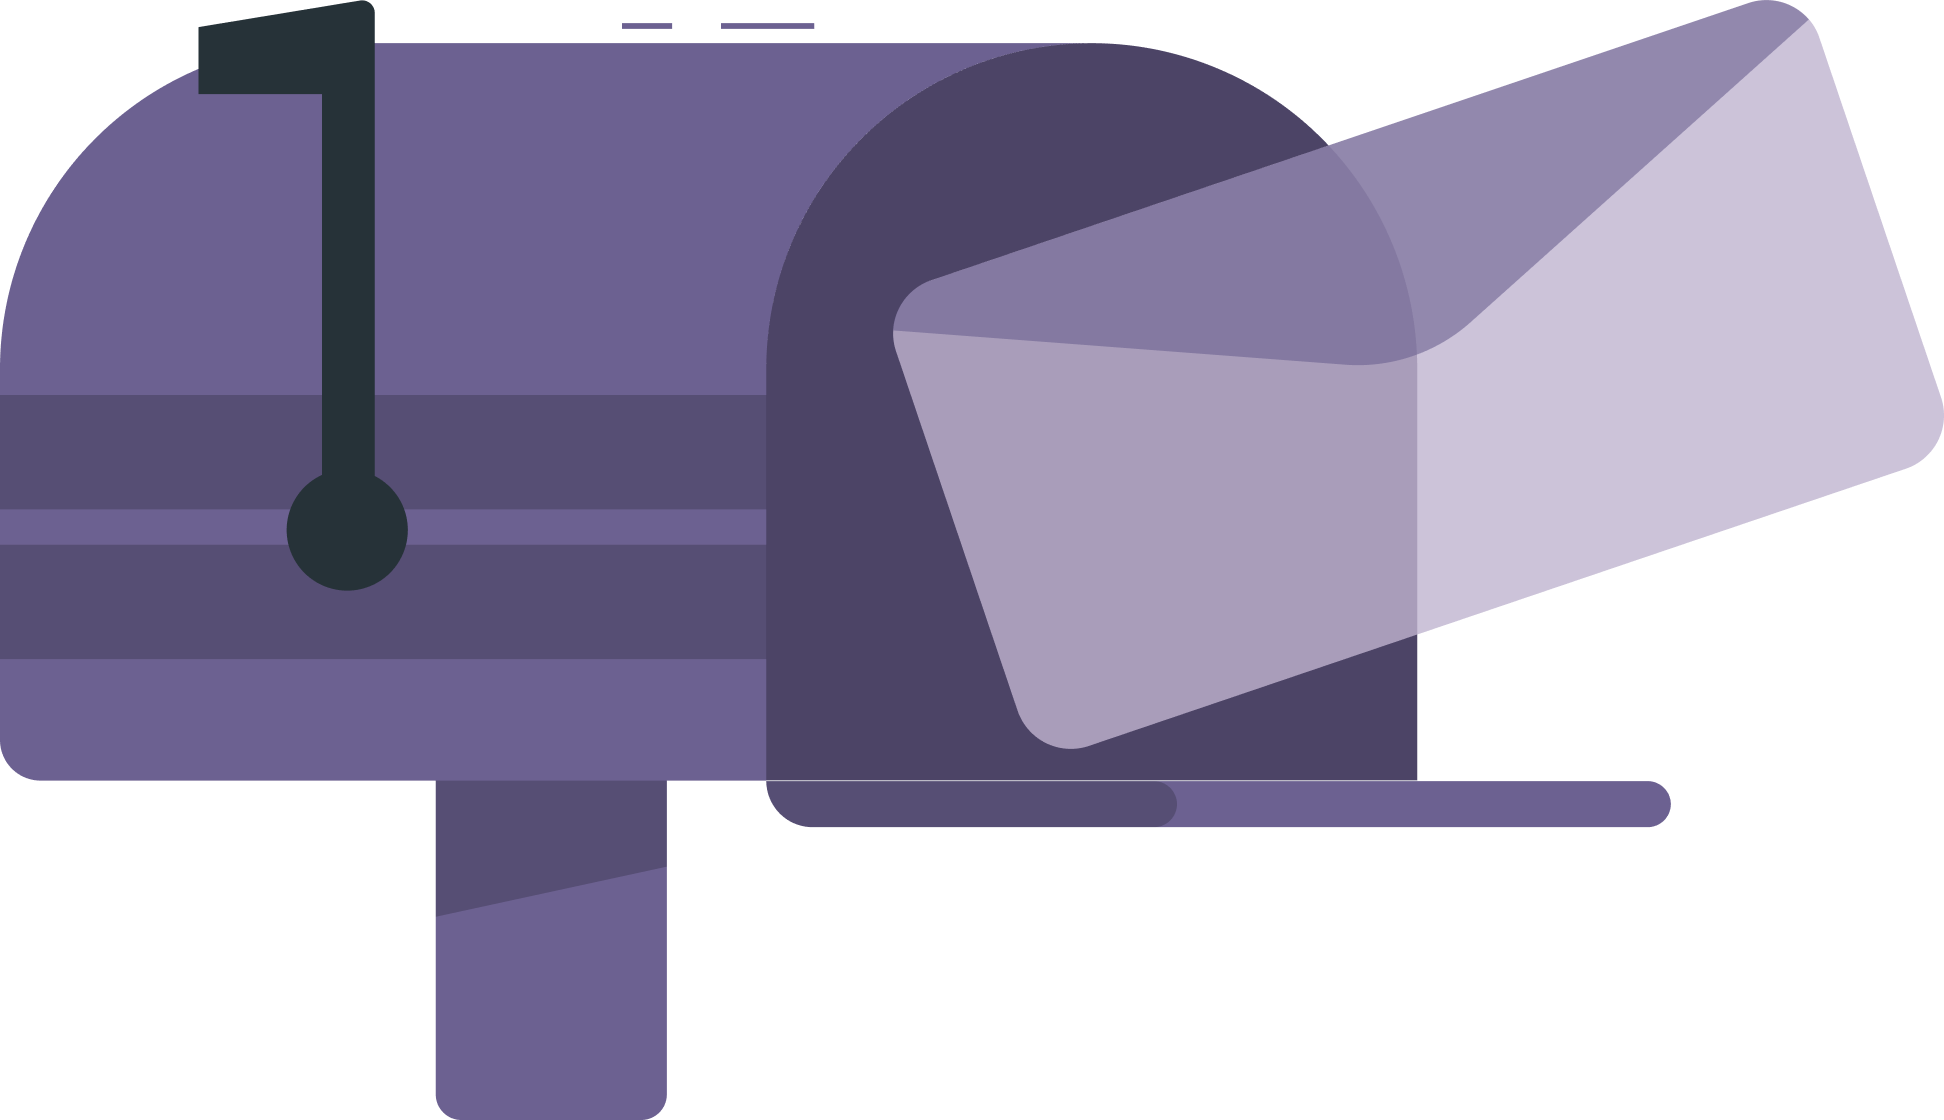
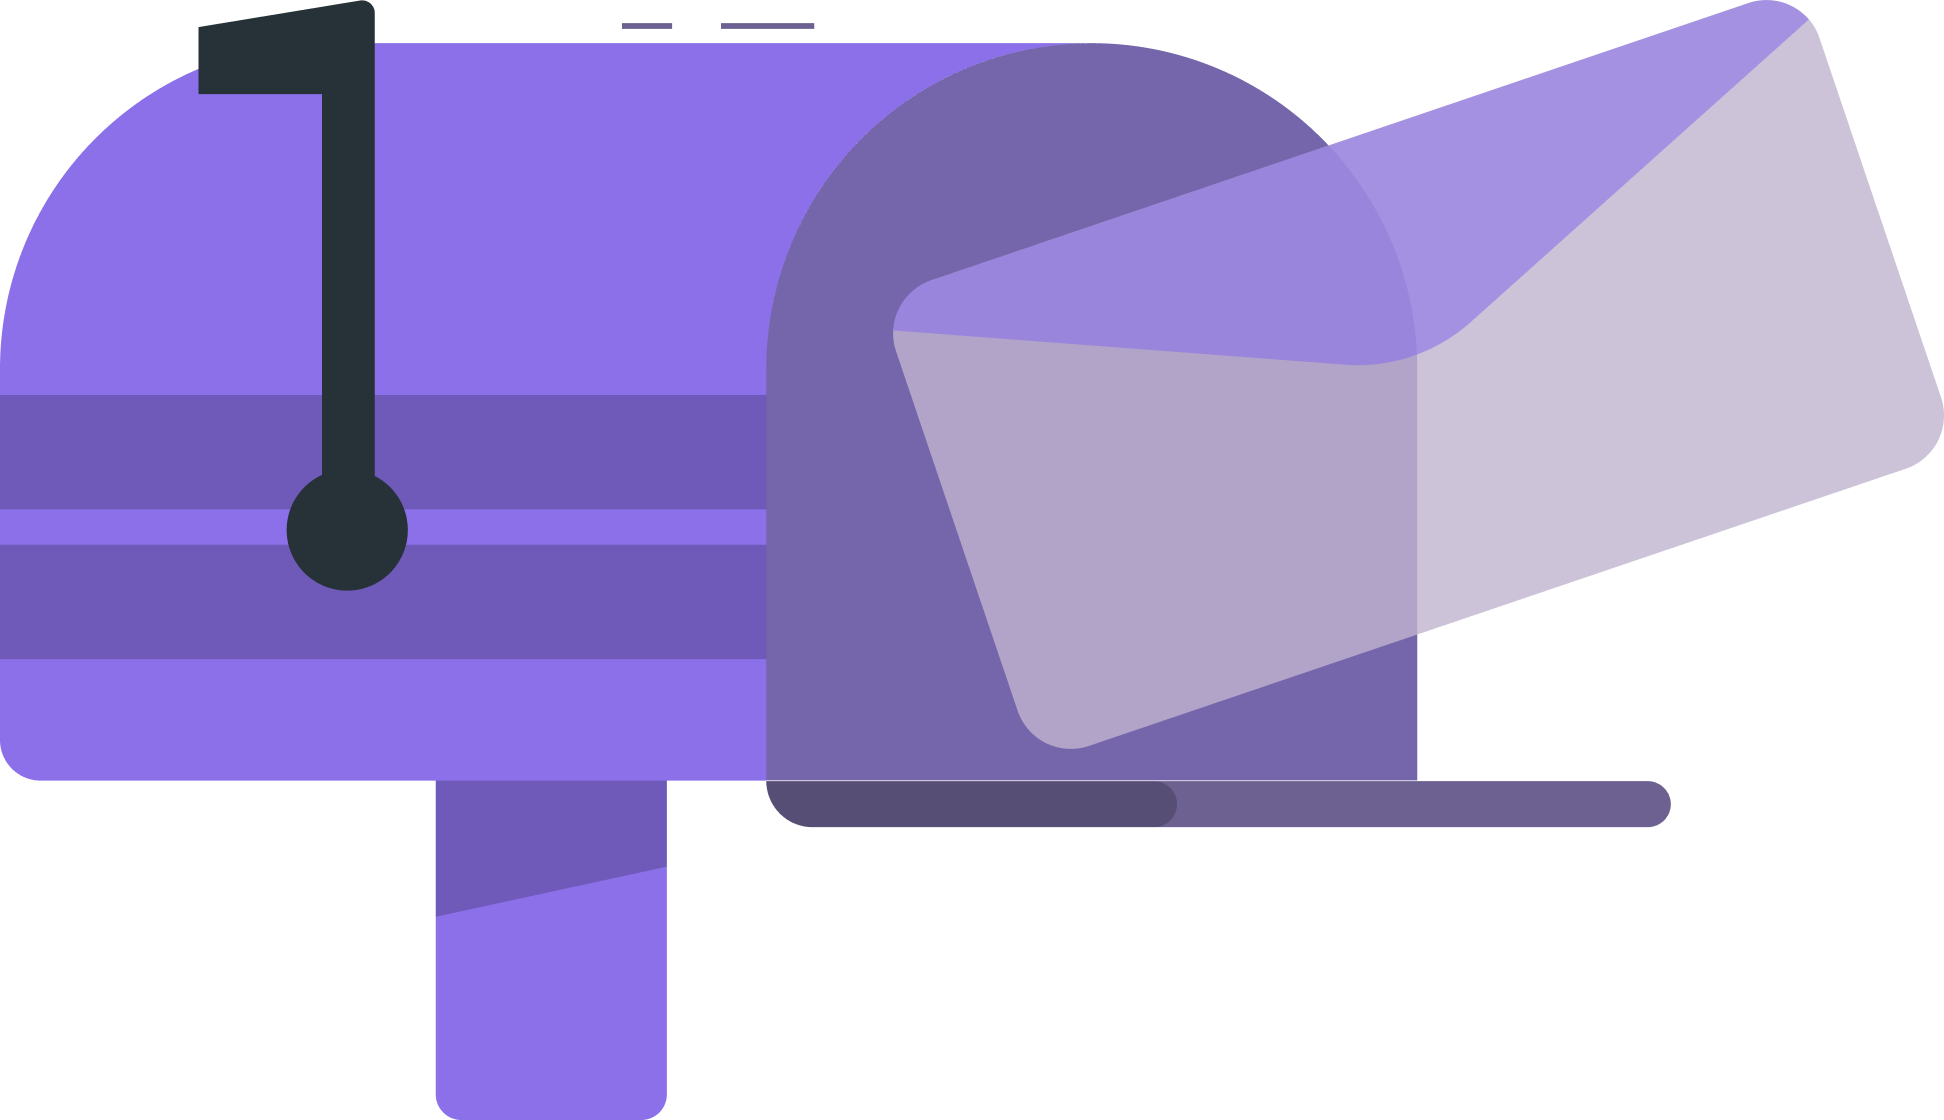
fixes

diff --git a/frontend/src/components/sign-up/signup.css b/frontend/src/components/sign-up/signup.css
@@ -423,6 +423,7 @@
 }
 
 #--opt {
+    margin-top: 30px;
     position: relative;
     text-align: center;
 }
@@ -470,7 +471,7 @@
     .mail_opt{
         width: 486px;
         height: auto;
-        margin: 0 auto 48px;
+        margin: 60px auto 48px;
     }
     .mail__opt{
         width: 200px;
@@ -498,9 +499,10 @@
         padding-top: 131px;
         padding-left: 57px;
         width: 37vw;
-        background: #6C6191;
+        background: #8B70E9;
         border-radius: 16px;
         margin-top: 32px;
+        margin-bottom: 46px;
 
     }
     .d_ava_opt{
@@ -605,8 +607,13 @@
         display: flex;
         justify-content: center;
         padding-bottom: 40px;
-        max-height: 1074px;
+        max-height: 1128px;
         max-width: 1440px;
         margin: auto;
+
+    }
+    .rb_opt{
+        margin-bottom: unset;
+
     }
 }

diff --git a/frontend/src/components/sign-up/sign-up_sec.jsx b/frontend/src/components/sign-up/sign-up_sec.jsx
@@ -34,7 +34,7 @@ export default function SignUp_sec(){
             <div className='li_opt'>A verification link has been sent to {mydata.slice(1, -1)}, click on the link to continue</div>
 
             <div className="button_div_opt">
-               {/*<Link to="/Login"> <button className='mybutton_opt' id='mybutton_opt' >Continue</button></Link>*/}
+               <Link to="/Login"> <button className='mybutton_opt' id='mybutton_opt' >Continue</button></Link>
                 <div className="all_opt" id="--opt">Didn’t receive the e-mail? <span className='col_opt'>Resend</span></div>
             </div>
             </div>

diff --git a/frontend/src/components/sign-up/sign-up_first.jsx b/frontend/src/components/sign-up/sign-up_first.jsx
@@ -249,7 +249,6 @@ export default function SignUp_first() {
                       </div>
                   )}
                 </div>
-                <div className='but_opt'>
                   <button
                       role="Opt_submit"
                       className="mybutton_opt"
@@ -263,7 +262,6 @@ export default function SignUp_first() {
                       <span className="annoyed_opt">Sign Up with Google</span></div>
 
                   </button>
-                </div>
 
               </div>
             </form>
